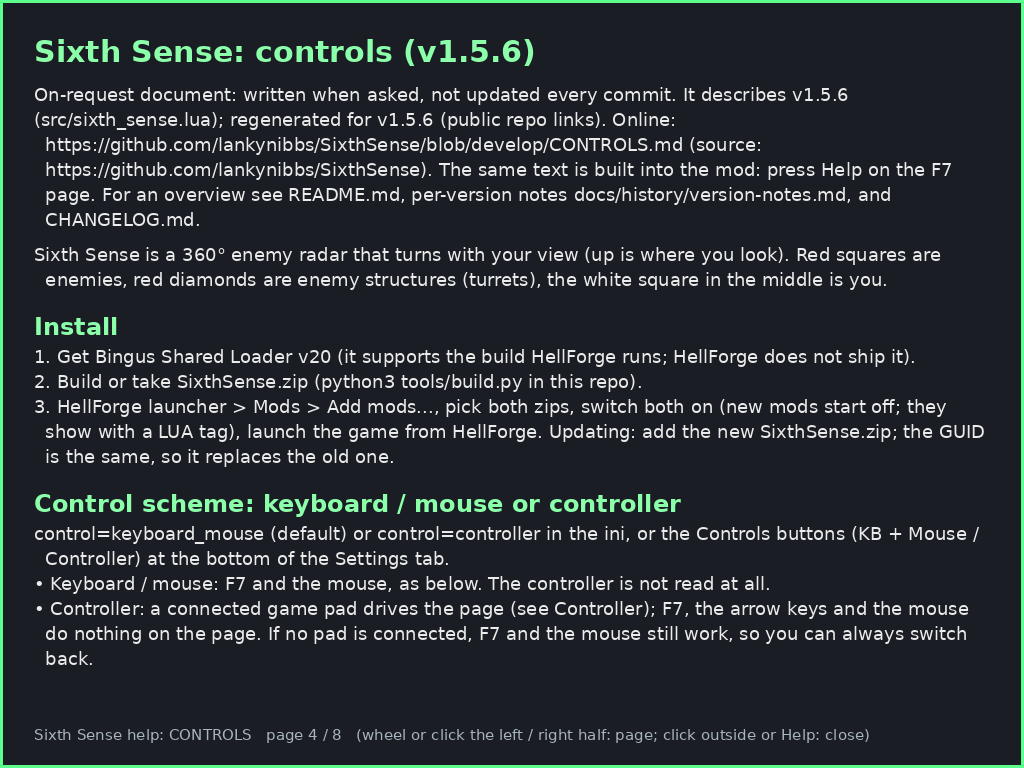
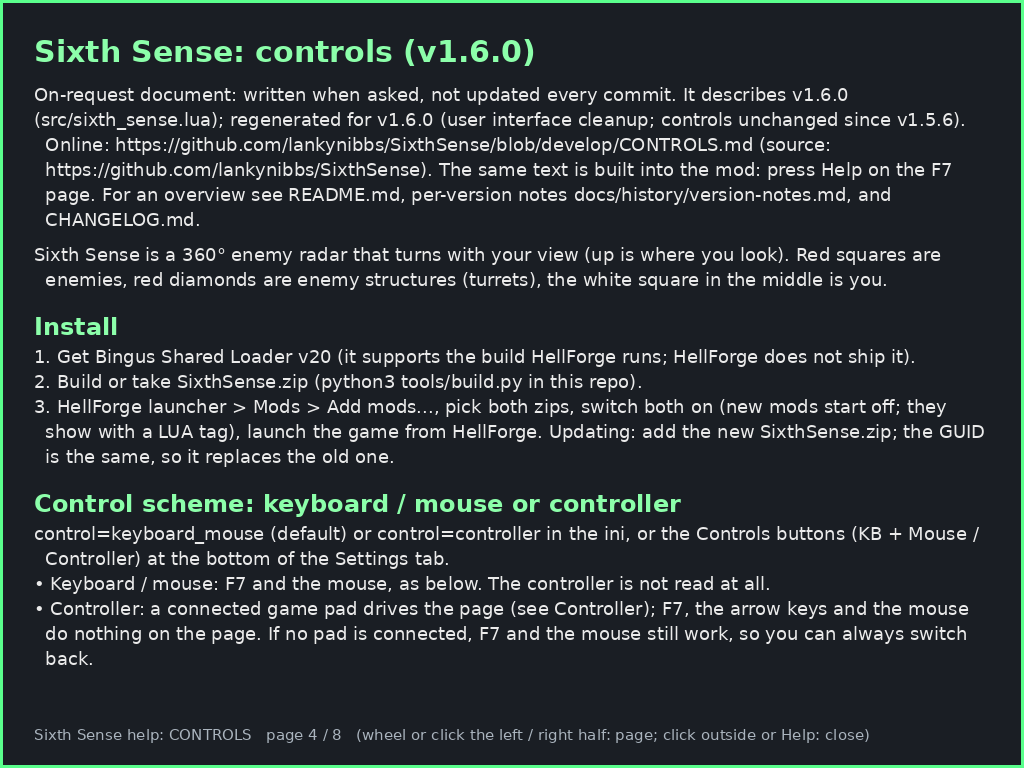
Bump version to 1.6.0 for user interface cleanup

Changed region(s): [[0.0312, 0.125, 0.875, 0.2188], [0.9062, 0.125, 0.9375, 0.1875]]

diff --git a/tests/stub_test.py b/tests/stub_test.py
@@ -534,7 +534,7 @@ C40 = g40.HUD_CFG
 check(os.path.exists(INI) and OLD in open(INI).read(), 'first load: rear_heat_hud.ini copied to sixth_sense.ini')
 check(abs(C40.sensitivity - 1.7) < 1e-9 and abs(C40.repeat_rate - 0.6) < 1e-9 and C40.dot_size == 'large' and abs(C40.radar_fx - 0.2) < 1e-9 and abs(C40.radar_aspect - 1.1) < 1e-9 and abs(C40.area_x0 - 11) < 1e-9, 'its sliders, area and radar keys are used')
 lg40 = open(LOGDIR + '/sixth_sense.log').read()
-check('Sixth Sense 1.5.6 loaded' in lg40 and 'settings copied from' in lg40, 'log is sixth_sense.log, copy logged')
+check('Sixth Sense 1.6.0 loaded' in lg40 and 'settings copied from' in lg40, 'log is sixth_sense.log, copy logged')
 open(LOGDIR + '/rear_heat_hud.ini', 'w').write('sensitivity=3.00\n')
 r41 = radar_rt(); u41 = r41.eval('update'); u41(0.016)
 check(abs(r41.globals().HUD_CFG.sensitivity - 1.7) < 1e-9, 'once only: an existing sixth_sense.ini is not overwritten')

diff --git a/HANDOFF.md b/HANDOFF.md
@@ -3,7 +3,7 @@
 > Current state only, in five parts. Update in place at each checkpoint. Rationale, decisions, and history go to [docs/history/](docs/history/), and release notes go to [CHANGELOG.md](CHANGELOG.md).
 
 ## Current goal
-Get **v1.5.6** confirmed in game (with v1.4.7's settings-file fix): a 360° north-up enemy radar HUD for Helldivers 2, a Lua addon under HellForge's Bingus Shared Loader (LuaJIT, offline build 25480438). Work goes on `develop`; batch several fixes per build.
+Get **v1.6.0** confirmed in game (with v1.4.7's settings-file fix): a 360° north-up enemy radar HUD for Helldivers 2, a Lua addon under HellForge's Bingus Shared Loader (LuaJIT, offline build 25480438). Work goes on `develop`; batch several fixes per build.
 
 ## What is done
 - v1.4.6 per-resolution layouts (`radar_layouts`, unsaved = centred, Reset clears current only): approved in game by Darryl.
@@ -15,6 +15,7 @@ Get **v1.5.6** confirmed in game (with v1.4.7's settings-file fix): a 360° nort
 - v1.5.4 (controller confirmed working in game by Darryl): control scheme `control=keyboard_mouse|controller` (Controls buttons on Settings). Controller: View held 2 s page on/off (5 s reset), LB/RB tabs, X Reset, B close, D-pad move / rows, Y/A size. See CONTROLS.md (regenerated on request only).
 - v1.5.5: Help button (4th) shows README.md + CONTROLS.md in game; pages rendered and text embedded at build time by `tools/help_pages.py` (run by `tools/build.py`). Controller: R3 Help, LB/RB pages, B closes Help (verified in game by Darryl).
 - v1.5.6: repo public (https://github.com/lankynibbs/SixthSense); README / CONTROLS.md / in-game Help link it.
+- v1.6.0 (`pretty-ui` branch): user interface cleanup: electric blue named palette (`UI` table), off / hover / on buttons, cleaner sliders, one region list + action dispatcher (`RG`) for the F7 page mouse input. Not yet tested in game.
 - F7 page: Display / Settings tabs, grab and corner handles, Reset, Help, F7 held 3 s, resolution line. No `[ ]`, no F8. Settings: 5 sliders (Size, Sensitivity, Repeat rate, Dot size, Radar color) + Shown / Hidden + Controls.
 
 ## What is blocked

diff --git a/CONTROLS.md b/CONTROLS.md
@@ -1,7 +1,7 @@
-# Sixth Sense: controls (v1.5.6)
+# Sixth Sense: controls (v1.6.0)
 
-> On-request document: written when asked, not updated every commit. It describes v1.5.6
-> (`src/sixth_sense.lua`); regenerated for v1.5.6 (public repo links). Online: https://github.com/lankynibbs/SixthSense/blob/develop/CONTROLS.md (source: https://github.com/lankynibbs/SixthSense). The same text is built into the mod: press Help on the F7 page. For an overview see [README.md](README.md), per-version notes [docs/history/version-notes.md](docs/history/version-notes.md), and [CHANGELOG.md](CHANGELOG.md).
+> On-request document: written when asked, not updated every commit. It describes v1.6.0
+> (`src/sixth_sense.lua`); regenerated for v1.6.0 (user interface cleanup; controls unchanged since v1.5.6). Online: https://github.com/lankynibbs/SixthSense/blob/develop/CONTROLS.md (source: https://github.com/lankynibbs/SixthSense). The same text is built into the mod: press Help on the F7 page. For an overview see [README.md](README.md), per-version notes [docs/history/version-notes.md](docs/history/version-notes.md), and [CHANGELOG.md](CHANGELOG.md).
 
 Sixth Sense is a 360° enemy radar that turns with your view (up is where you look). Red
 squares are enemies, red diamonds are enemy structures (turrets), the white square in the middle is you.

diff --git a/README.md b/README.md
@@ -2,7 +2,7 @@
 
 **A 360° enemy radar HUD for Helldivers 2, running under HellForge with Bingus Shared Loader.**
 
-Version **1.5.6** · GUID `bb72454c-ccd3-4e9b-927c-fcd80a09baf1`
+Version **1.6.0** · GUID `bb72454c-ccd3-4e9b-927c-fcd80a09baf1`
 
 ![Sixth Sense radar preview](docs/images/radar_preview_green.png)
 
@@ -68,7 +68,7 @@ Settings from the older **Rear Heat HUD** (`rear_heat_hud.ini`) are copied over 
 - Source: `src/sixth_sense.lua` (plus `src/enemy_tiers.lua.inc`). Build: `python3 tools/build.py` writes
   `SixthSense.zip` (needs the sibling `BingusSharedLoader` and `Treasure-Radar` checkouts). Offline test:
   `python3 tests/stub_test.py` (needs `lupa`).
-- Release zip contents (`SixthSense.zip`): `manifest.json` (name "Sixth Sense v1.5.6", the GUID above) and
+- Release zip contents (`SixthSense.zip`): `manifest.json` (name "Sixth Sense v1.6.0", the GUID above) and
   `Addon/9ba626afa44a3aa3.patch_0` with its `.gpu_resources` and `.stream`: the Lua addon plus the textures from
   `assets/` (the radar disc, the F7 page's word labels and the Help pages). The Help pages (`assets/help_*.png`)
   and the text embedded in the Lua are made from README.md and CONTROLS.md by `tools/help_pages.py`, which

diff --git a/CHANGELOG.md b/CHANGELOG.md
@@ -6,6 +6,11 @@ Versions before v1.3.2 were built before the repo was put under git and are unda
 
 ## [Unreleased]
 
+## [1.6.0] - 2026-11-05
+### Changed
+- User interface cleanup on the F7 page: an electric blue dark theme from one named palette (panel, buttons, sliders, focus frame); buttons show off / hover / on states with a border and an accent stripe; sliders have a muted track, an accent fill and a white knob that turns pure white while dragged.
+- One hit-region list and action dispatcher behind the F7 page's mouse input: every control registers its region as it is drawn, so hover comes for free and the sliders keep their padded hit areas. Controls, settings and the ini are unchanged.
+
 ## [1.5.6] - 2026-11-02
 ### Changed
 - The repo is public: README (homepage, browse / clone, CONTROLS.md, issues) and CONTROLS.md link https://github.com/lankynibbs/SixthSense; the "private repo" note is gone. In-game Help regenerated from them shows the URLs (web links keep their URL in the Help pages).

diff --git a/docs/history/version-notes.md b/docs/history/version-notes.md
@@ -1,5 +1,9 @@
 
 
+## v1.6.0 changes
+
+- User interface cleanup: electric blue named palette, off / hover / on buttons with border and accent stripe, cleaner sliders (muted track, accent fill, white knob, pure white while dragged), and one region list + action dispatcher for the F7 page mouse input.
+
 ## v1.5.6 changes
 
 - Public repo links (https://github.com/lankynibbs/SixthSense) in the README, CONTROLS.md and the in-game Help pages.
